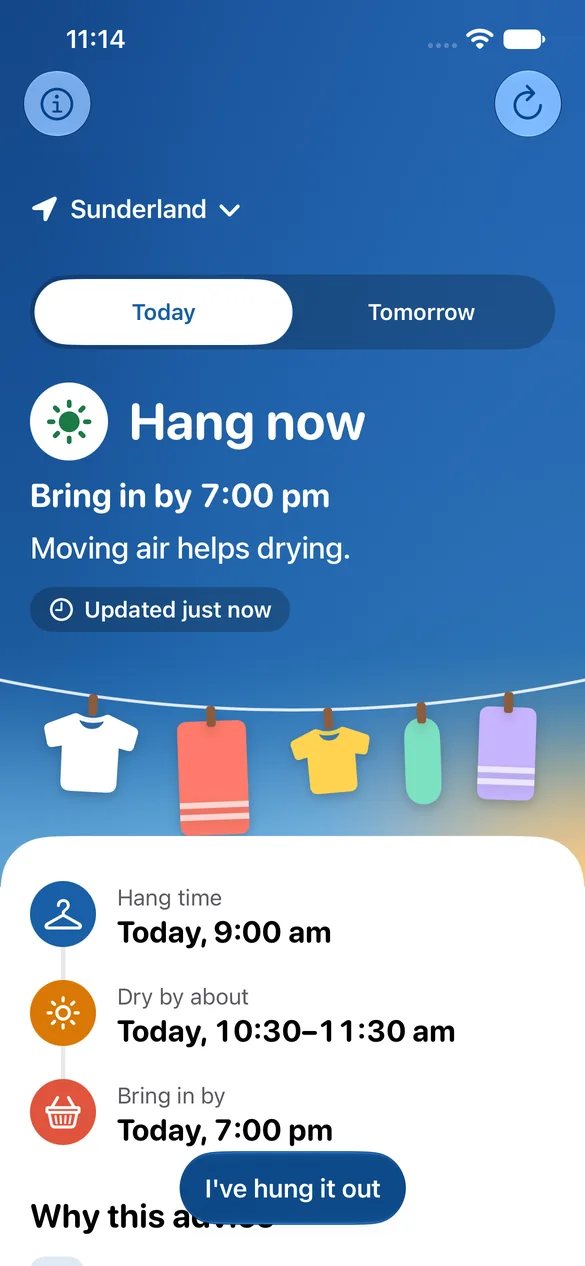
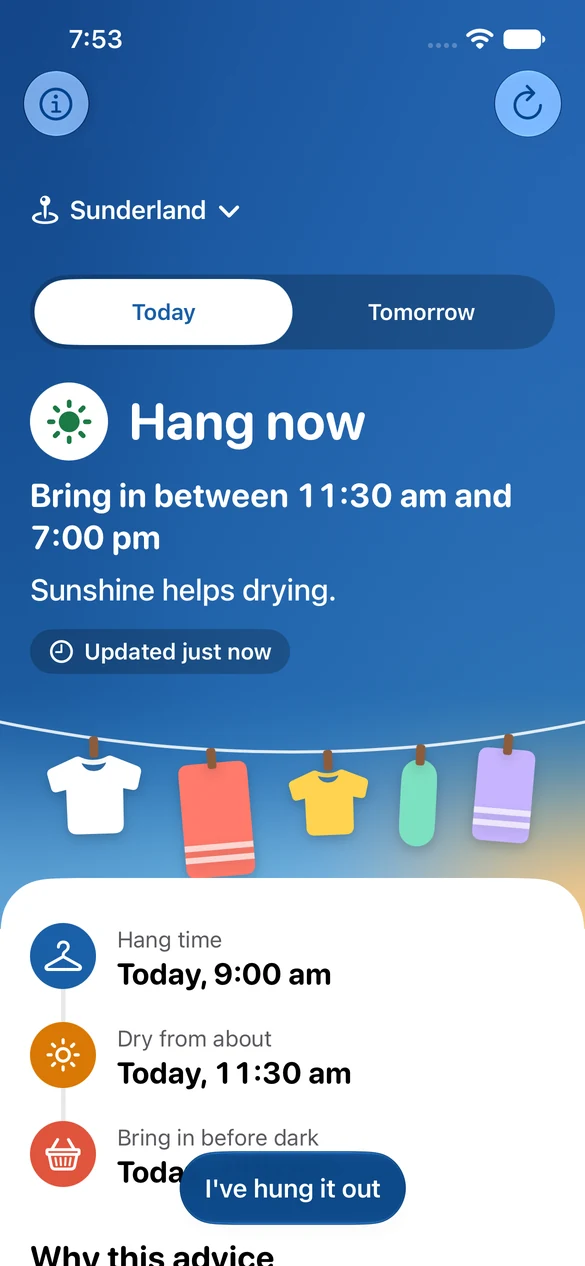
Match the PegCast page to the app's current words and screens
- Use the app's three steps: Hang time, Dry from about and Bring in before dark.
- Name the weather that PegCast reads and the sun it works out. Say that it
  sets its dry times a little late on purpose. Add a line that the bring-in
  time comes with its reason.
- Retake all ten screenshots and the Open Graph image from the current app,
  with the same Sunderland place, and rewrite each alt text to match.
- Re-export the privacy page, which now names the weather and the sun. PegCast
  builds it.

diff --git a/src/app/pegcast/page.tsx b/src/app/pegcast/page.tsx
@@ -35,7 +35,7 @@ export const metadata: Metadata = {
         url: "https://deancod.es/pegcast/og.png",
         width: 1200,
         height: 630,
-        alt: "PegCast on an iPhone under a blue sky. The app says Hang now, bring in by 7:00 pm.",
+        alt: "PegCast on an iPhone under a blue sky. The app says Hang now. Bring in between 11:30 am and 7:00 pm.",
       },
     ],
   },
@@ -56,27 +56,27 @@ export const viewport: Viewport = {
 
 const homeAlt: Themed = {
   light:
-    "PegCast Home screen for Sunderland, under a blue day sky. The sky says Hang now, bring in by 7:00 pm, because moving air helps drying. Below, on a white sheet, are three times for today: hang at 9:00 am, dry by about 10:30 to 11:30 am, and bring in by 7:00 pm. The button at the bottom says I've hung it out.",
+    "PegCast Home screen for Sunderland, under a blue day sky. The sky says Hang now. Bring in between 11:30 am and 7:00 pm. Sunshine helps drying. Below, on a white sheet, are three steps. Hang time: Today, 9:00 am. Dry from about: Today, 11:30 am. Bring in before dark: the button I've hung it out covers this time.",
   dark:
-    "PegCast Home screen for Sunderland, under a navy and purple night sky. The sky says Hang now, bring in by 7:00 pm, because moving air helps drying. Below, on a black sheet, are three times for today: hang at 9:00 am, dry by about 10:30 to 11:30 am, and bring in by 7:00 pm. The button at the bottom says I've hung it out.",
+    "PegCast Home screen for Sunderland, under a navy and purple night sky. The sky says Hang now. Bring in between 11:30 am and 7:00 pm. Sunshine helps drying. Below, on a black sheet, are three steps. Hang time: Today, 9:00 am. Dry from about: Today, 11:30 am. Bring in before dark: the button I've hung it out covers this time.",
 };
 const loadPlanAlt: Themed = {
   light:
-    "The Load Plan screen, with a blue card on a white screen. The washing is on the line in Sunderland. Bring in by today, 7:00 pm, checked today at 9:00 am. Two switches, both off, set a reminder at 7:00 pm and show the plan on the Lock Screen.",
+    "The Load Plan screen, with a blue card on a white screen. An Everyday Load is on the line in Sunderland. Bring in before dark, today, 7:00 pm. Checked today, 9:00 am. Sunshine helps drying. Two switches are off: Remind me at 7:00 pm, and Show on Lock Screen. Below the first are the words Notifications are off, and an Open Settings button.",
   dark:
-    "The Load Plan screen, with a navy card on a black screen. The washing is on the line in Sunderland. Bring in by today, 7:00 pm, checked today at 9:00 am. Two switches, both off, set a reminder at 7:00 pm and show the plan on the Lock Screen.",
+    "The Load Plan screen, with a navy card on a black screen. An Everyday Load is on the line in Sunderland. Bring in before dark, today, 7:00 pm. Checked today, 9:00 am. Sunshine helps drying. Two switches are off: Remind me at 7:00 pm, and Show on Lock Screen. Below the first are the words Notifications are off, and an Open Settings button.",
 };
 const widgetAlt: Themed = {
   light:
-    "A small Home Screen widget on a blue day sky. It says On the line, bring in by today, 7:00 pm, saved and checked at 9:00 am.",
+    "A small Home Screen widget on a blue day sky. It says On the line, before dark, today, 7:00 pm, saved and checked at 10:30 am.",
   dark:
-    "A small Home Screen widget on a navy and purple night sky. It says On the line, bring in by today, 7:00 pm, saved and checked at 9:00 am.",
+    "A small Home Screen widget on a navy and purple night sky. It says On the line, before dark, today, 7:00 pm, saved and checked at 10:30 am.",
 };
 const liveActivityAlt: Themed = {
   light:
-    "A Live Activity on the Lock Screen, on a blue day sky. It says bring in by today, 7:00 pm, 10 hours, 0 minutes left, saved and checked at 9:00 am.",
+    "A Live Activity on the Lock Screen, on a blue day sky. It says bring in before dark, today, 7:00 pm, 8 hours, 30 minutes left, saved and checked at 10:30 am.",
   dark:
-    "A Live Activity on the Lock Screen, on a navy and purple night sky. It says bring in by today, 7:00 pm, 10 hours, 0 minutes left, saved and checked at 9:00 am.",
+    "A Live Activity on the Lock Screen, on a navy and purple night sky. It says bring in before dark, today, 7:00 pm, 8 hours, 30 minutes left, saved and checked at 10:30 am.",
 };
 const chartAlt: Themed = {
   light:
@@ -95,14 +95,14 @@ const steps = [
     icon: HangerIcon,
   },
   {
-    label: "Dry by about",
+    label: "Dry from about",
     text: "When it should be dry.",
     className: styles.dryByStep,
     icon: SunIcon,
   },
   {
-    label: "Bring in by",
-    text: "When to bring it in.",
+    label: "Bring in before dark",
+    text: "The latest time to bring it in, and why.",
     className: styles.bringInStep,
     icon: BasketIcon,
   },
@@ -205,8 +205,13 @@ export default function PegCastPage() {
                   Three times for every load
                 </h2>
                 <p className={`${styles.muted} mt-4 text-lg leading-relaxed`}>
-                  PegCast looks at rain, wind, humidity and daylight, hour by
-                  hour. Then it tells you what to do and when.
+                  PegCast reads the rain, wind, temperature, humidity, cloud
+                  cover and daylight, hour by hour. It also works out how much sun
+                  reaches the washing. Then it tells you what to do and when.
+                </p>
+                <p className={`${styles.muted} mt-4 text-lg leading-relaxed`}>
+                  PegCast sets its dry times a little late on purpose, so you
+                  do not bring the washing in damp.
                 </p>
               </div>
               <ol className={`${styles.steps} grid gap-5`}>
@@ -256,6 +261,10 @@ export default function PegCastPage() {
                   When the advice says Hang now, tap I&apos;ve hung it out.
                   PegCast saves the load and tells you when to bring it in.
                 </Feature>
+                <Feature title="Tells you why">
+                  The time to bring the washing in comes with its reason:
+                  dark, rain, damp air or strong wind.
+                </Feature>
                 <Feature title="The Load Plan">
                   Plan a load for later. PegCast checks the weather again
                   before you hang it out. While the washing is out, Check
@@ -297,7 +306,7 @@ export default function PegCastPage() {
                   }}
                   alt={liveActivityAlt}
                   width={710}
-                  height={257}
+                  height={260}
                   className={`${styles.tile} h-auto w-full max-w-[340px]`}
                 />
               </div>

diff --git a/public/pegcast/privacy/index.html b/public/pegcast/privacy/index.html
@@ -222,6 +222,7 @@
             <details>
               <summary>What Apple receives</summary>
               <p>Apple Weather receives your Forecast Location, rounded to about 1 km, so that it can return a forecast.</p>
+<p>Apple Weather returns the hourly rain, wind, temperature, humidity, cloud cover and daylight, and the time of sunset. PegCast works out the sun&#039;s position on this iPhone from the hour and your Forecast Location, rounded to 0.1 degree. No more data leaves this iPhone for it.</p>
 <p>Apple Maps receives your place search. It receives your device location only when you tap Use device location.</p>
               
             </details>
